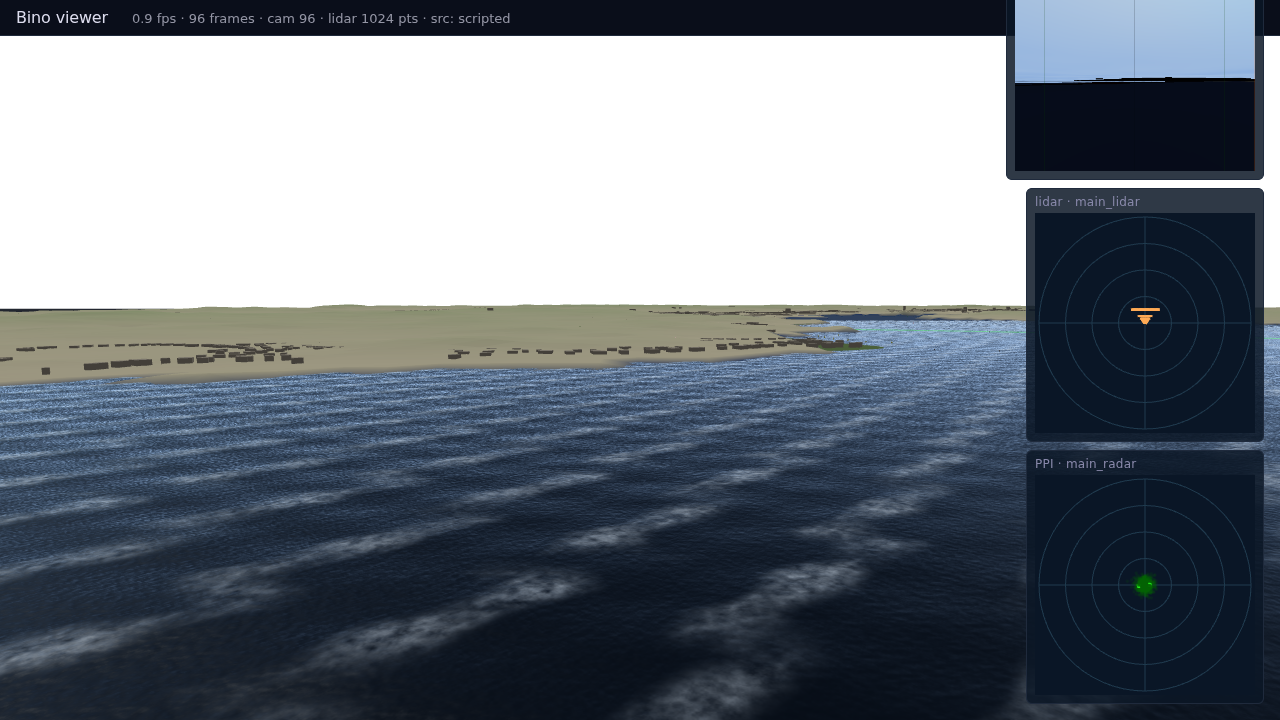
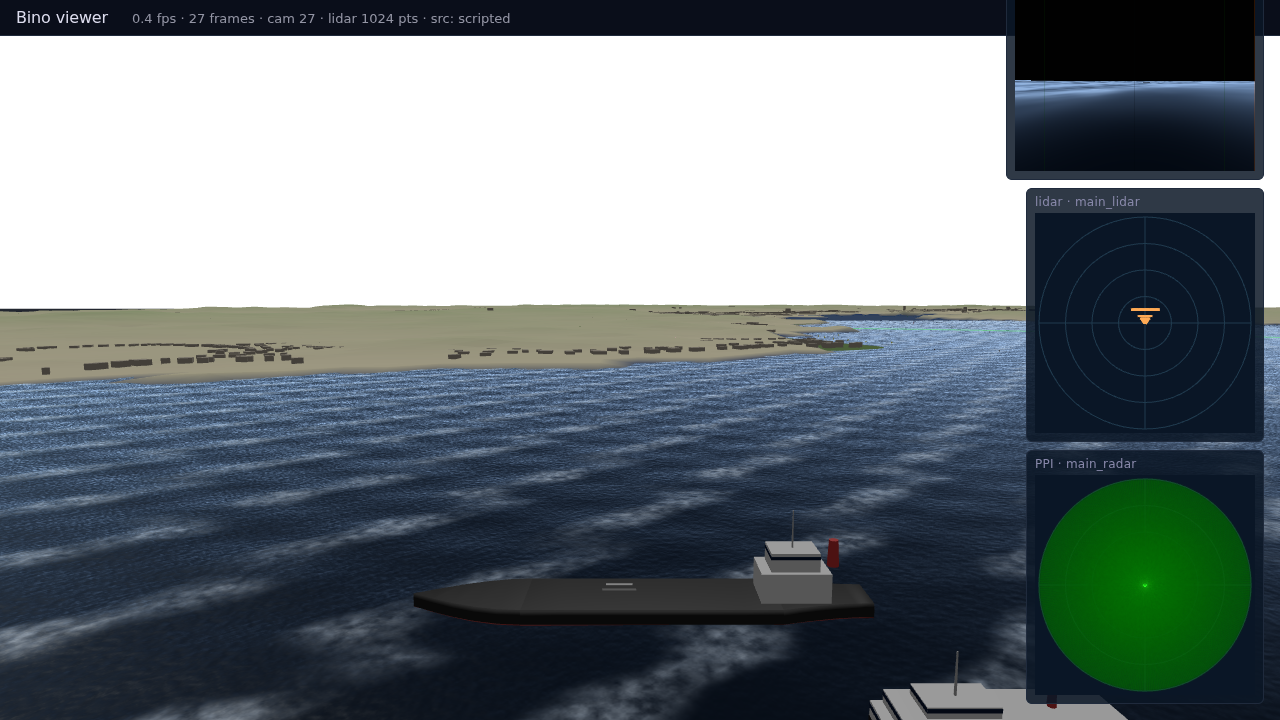
fix: ferry car deck gap, update viewer screenshot with vessels visible
Add visible car deck (tier 1) geometry to ferry so superstructure
no longer floats above the hull. Retake README screenshot with
vessels in frame.

Changed region(s): [[0.0, 0.4278, 1.0, 1.0], [0.7812, 0.0, 1.0, 0.1833], [0.0938, 0.9472, 0.2188, 1.0]]

diff --git a/packages/core/src/assets.ts b/packages/core/src/assets.ts
@@ -387,10 +387,13 @@ function buildFerrySuperstructure(
   // Deck surface
   parts.push(makeDeckSurface(dims));
 
-  // Tier 1: Car deck — open at sides (just the ceiling/floor of next deck)
+  // Tier 1: Car deck
   const tier1H = ss.height * 0.3;
-  // We represent the car deck as thin floor plates at each end (no walls)
-  // Skip visible walls for the bottom tier — open sides
+  const tier1Geom = new THREE.BoxGeometry(ssLen, tier1H, ssW);
+  const tier1Mesh = new THREE.Mesh(tier1Geom, MAT.hullAbove());
+  tier1Mesh.name = "car_deck";
+  tier1Mesh.position.set(ssX, deckY + tier1H / 2, 0);
+  parts.push(tier1Mesh);
 
   // Tier 2: Passenger deck (full enclosure, slightly narrower)
   const tier2H = ss.height * 0.3;
